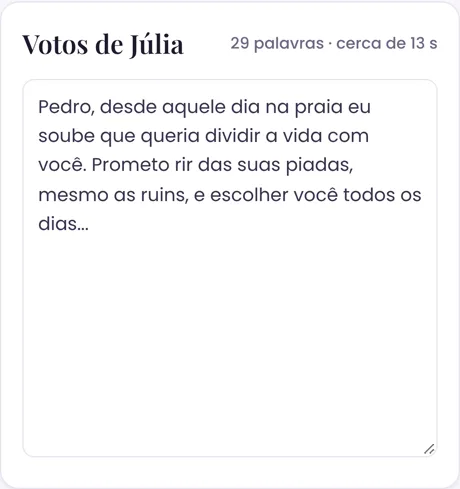
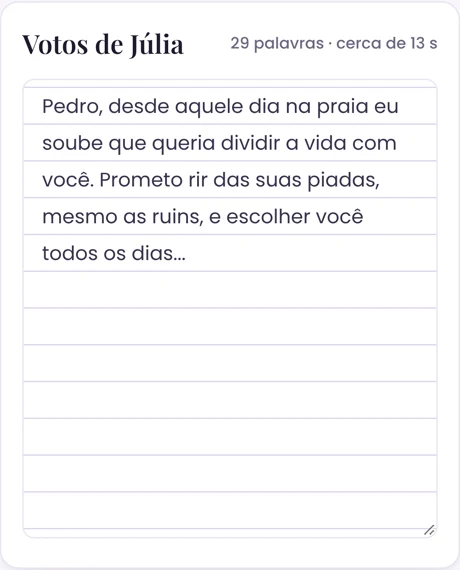
Página do app: cards da grade do mesmo tamanho, frase da cena 1 com mais tempo de leitura; votos com linhas de caderno
Claude-Session: https://claude.ai/code/session_016oanMoqSLwB8wD9WTYZ31H

diff --git a/pagina/index.html b/pagina/index.html
@@ -275,7 +275,9 @@ header{position:sticky;top:0;z-index:40}
 .pilha{position:relative;width:min(300px,62vw);height:min(360px,48vh);perspective:1400px}
 .pilha-in{position:absolute;inset:0;transform-style:preserve-3d;transform:rotateX(56deg) rotateZ(-34deg)}
 .camada{position:absolute;left:0;right:0;top:50%;margin:0 auto;width:100%;border-radius:16px;overflow:hidden;box-shadow:0 30px 40px -24px rgba(40,10,90,.55);background:#fff;transform:translate3d(0,-50%,0);will-change:transform}
-.camada img{width:100%;display:block}
+.camada{aspect-ratio:460/323}
+.camada img{width:100%;height:100%;display:block;object-fit:cover;object-position:50% 0}
+.camada img.base{object-position:50% 100%}.camada img.meio{object-position:50% 50%}
 .pilha-in .camada{transform-origin:50% 50%}
 .rotulos{list-style:none;display:flex;flex-direction:column;gap:9px;overflow:hidden;text-align:left;max-width:300px}
 .rotulos li{display:flex;gap:10px;align-items:flex-start;opacity:.25;transition:opacity .3s}
@@ -378,11 +380,11 @@ section[style*="padding-top:0"]{padding-bottom:34px}
   <p class="sub">Cada parte do casamento numa camada do app.</p>
   <div class="pilha-area">
     <div class="pilha"><div class="pilha-in">
-      <div class="camada" data-i="0" data-o="7"><img src="/img/pagina/camada-enxoval.webp" alt="Enxoval da casa nova no app" loading="lazy" width="460" height="418"></div>
-      <div class="camada" data-i="1" data-o="6"><img src="/img/pagina/camada-votos.webp" alt="Votos dos noivos" loading="lazy" width="460" height="489"></div>
+      <div class="camada" data-i="0" data-o="7"><img class="base" src="/img/pagina/camada-enxoval.webp" alt="Enxoval da casa nova no app" loading="lazy" width="460" height="418"></div>
+      <div class="camada" data-i="1" data-o="6"><img src="/img/pagina/camada-votos.webp?v=2" alt="Votos dos noivos" loading="lazy" width="460" height="570"></div>
       <div class="camada" data-i="2" data-o="5"><img src="/img/pagina/camada-cortejo.webp" alt="Ordem de entrada do cortejo" loading="lazy" width="460" height="545"></div>
-      <div class="camada" data-i="3" data-o="4"><img src="/img/pagina/camada-luamel.webp" alt="Lua de mel no app" loading="lazy" width="460" height="418"></div>
-      <div class="camada" data-i="4" data-o="3"><img src="/img/pagina/camada-mural.webp?v=2" alt="Mural com fotos de inspiração" loading="lazy" width="460" height="369"></div>
+      <div class="camada" data-i="3" data-o="4"><img class="base" src="/img/pagina/camada-luamel.webp" alt="Lua de mel no app" loading="lazy" width="460" height="418"></div>
+      <div class="camada" data-i="4" data-o="3"><img class="meio" src="/img/pagina/camada-mural.webp?v=2" alt="Mural com fotos de inspiração" loading="lazy" width="460" height="369"></div>
       <div class="camada" data-i="5" data-o="2"><img src="/img/pagina/camada-mesas.webp" alt="Mapa de mesas com convidados" loading="lazy" width="460" height="333"></div>
       <div class="camada" data-i="6" data-o="1"><img src="/img/pagina/camada-fornecedores.webp" alt="Lista de fornecedores" loading="lazy" width="460" height="349"></div>
       <div class="camada" data-i="7" data-o="0"><img src="/img/pagina/camada-contagem.webp?v=2" alt="Contagem regressiva do casamento" loading="lazy" width="460" height="323"></div>
@@ -594,7 +596,7 @@ window.addEventListener('DOMContentLoaded', function () {
   gsap.matchMedia().add({ cel: '(max-width: 759px)', pc: '(min-width: 760px)' }, function (ctx) {
   var cel = ctx.conditions.cel;
   /* cena 1: os objetos se afastam, o app gira e some, e a frase aparece */
-  var tl1 = gsap.timeline({ scrollTrigger: { trigger: '#cena1', start: 'top top', end: cel ? '+=85%' : '+=100%', scrub: 1, pin: true, invalidateOnRefresh: true } });
+  var tl1 = gsap.timeline({ scrollTrigger: { trigger: '#cena1', start: 'top top', end: cel ? '+=115%' : '+=130%', scrub: 1, pin: true, invalidateOnRefresh: true } });
   tl1.to('.c1-txt', { y: -50, opacity: 0, filter: 'blur(8px)', ease: 'none', duration: .45 }, 0)
      .to('#fone1', { rotateX: 16, rotateY: -14, scale: .82, y: -30, ease: 'none', duration: .55 }, 0)
      .to('#fone1', { opacity: 0, y: -90, scale: .7, filter: 'blur(6px)', ease: 'none', duration: .35 }, .5);
@@ -617,11 +619,12 @@ window.addEventListener('DOMContentLoaded', function () {
     tl1.to(c, { opacity: 1, scale: esc, x: cel ? xCel : 0, xPercent: cel ? 0 : lado * 118 + lado * baixo * 12, yPercent: baixo ? (cel ? 20 : 40) : (cel ? -30 : -50), rotation: lado * (baixo ? 4 : -3), ease: 'power1.out', duration: .3 }, i * .025);
   });
   tl1.to(voa, { opacity: 0, y: -40, ease: 'none', duration: .2 }, .55);
-  tl1.fromTo('#frase1', { opacity: 0, scale: .94, filter: 'blur(14px)' }, { opacity: 1, scale: 1, filter: 'blur(0px)', ease: 'none', duration: .4 }, .55);
+  tl1.fromTo('#frase1', { opacity: 0, scale: .94, filter: 'blur(14px)' }, { opacity: 1, scale: 1, filter: 'blur(0px)', ease: 'none', duration: .3 }, .55);
 
+  /* a frase fica parada e nítida por um trecho do scroll, para dar tempo de ler */
   /* ligação 1 → 2: a frase cresce e se desfaz enquanto o título da cena 2 entra saindo do desfoque */
-  tl1.to('#frase1', { opacity: 0, scale: 1.12, filter: 'blur(12px)', ease: 'none', duration: .25 }, 1.0);
-  tl1.to('.c1 .emo', { opacity: 0, scale: .6, ease: 'none', duration: .25 }, 1.0);
+  tl1.to('#frase1', { opacity: 0, scale: 1.12, filter: 'blur(12px)', ease: 'none', duration: .25 }, 1.4);
+  tl1.to('.c1 .emo', { opacity: 0, scale: .6, ease: 'none', duration: .25 }, 1.4);
   gsap.fromTo('#cena2 h2, #cena2 .sub', { opacity: 0, y: 40, filter: 'blur(10px)' }, { opacity: 1, y: 0, filter: 'blur(0px)', ease: 'none', stagger: .08,
     scrollTrigger: { trigger: '#cena2', start: 'top 100%', end: 'top 30%', scrub: 1 } });
   gsap.fromTo('.pilha-area', { opacity: 0, y: 70, scale: .85 }, { opacity: 1, y: 0, scale: 1, ease: 'none',

diff --git a/app/app.css b/app/app.css
@@ -87,6 +87,7 @@ nav.menu{display:flex;flex-direction:column;gap:2px}
 label.campo{display:flex;flex-direction:column;gap:4px;font-size:11.5px;font-weight:600;color:var(--suave);letter-spacing:.02em;min-width:0}
 input,select,textarea{width:100%;border:1px solid var(--linha);background:#fff;border-radius:9px;padding:9px 11px;font-size:14px;min-width:0}
 textarea{resize:vertical;min-height:110px;line-height:1.6}
+textarea[data-p="votos"]{line-height:28px;padding:6px 14px;font-size:15px;background:#fff linear-gradient(transparent 27px,#ddd5ec 27px) 0 6px/100% 28px local;min-height:290px}
 input:focus,select:focus,textarea:focus{outline:none;border-color:var(--acc);box-shadow:0 0 0 3px var(--acc-sua)}
 input[type=checkbox]{width:18px;height:18px;padding:0;accent-color:var(--acc);flex:none;cursor:pointer}
 input[type=color]{padding:2px;height:40px;width:52px;cursor:pointer}

diff --git a/app/index.html b/app/index.html
@@ -11,7 +11,7 @@
 <meta name="apple-mobile-web-app-title" content="Planner">
 <link rel="preconnect" href="https://fonts.googleapis.com"><link rel="preconnect" href="https://fonts.gstatic.com" crossorigin>
 <link rel="stylesheet" href="https://fonts.googleapis.com/css2?family=Great+Vibes&family=Playfair+Display:ital,wght@0,600;1,600&family=Poppins:wght@400;500;600;700&display=swap">
-<link rel="stylesheet" href="/app/app.css?v=70">
+<link rel="stylesheet" href="/app/app.css?v=71">
 </head>
 <body>
 <noscript>O planner precisa do JavaScript ligado no navegador.</noscript>
